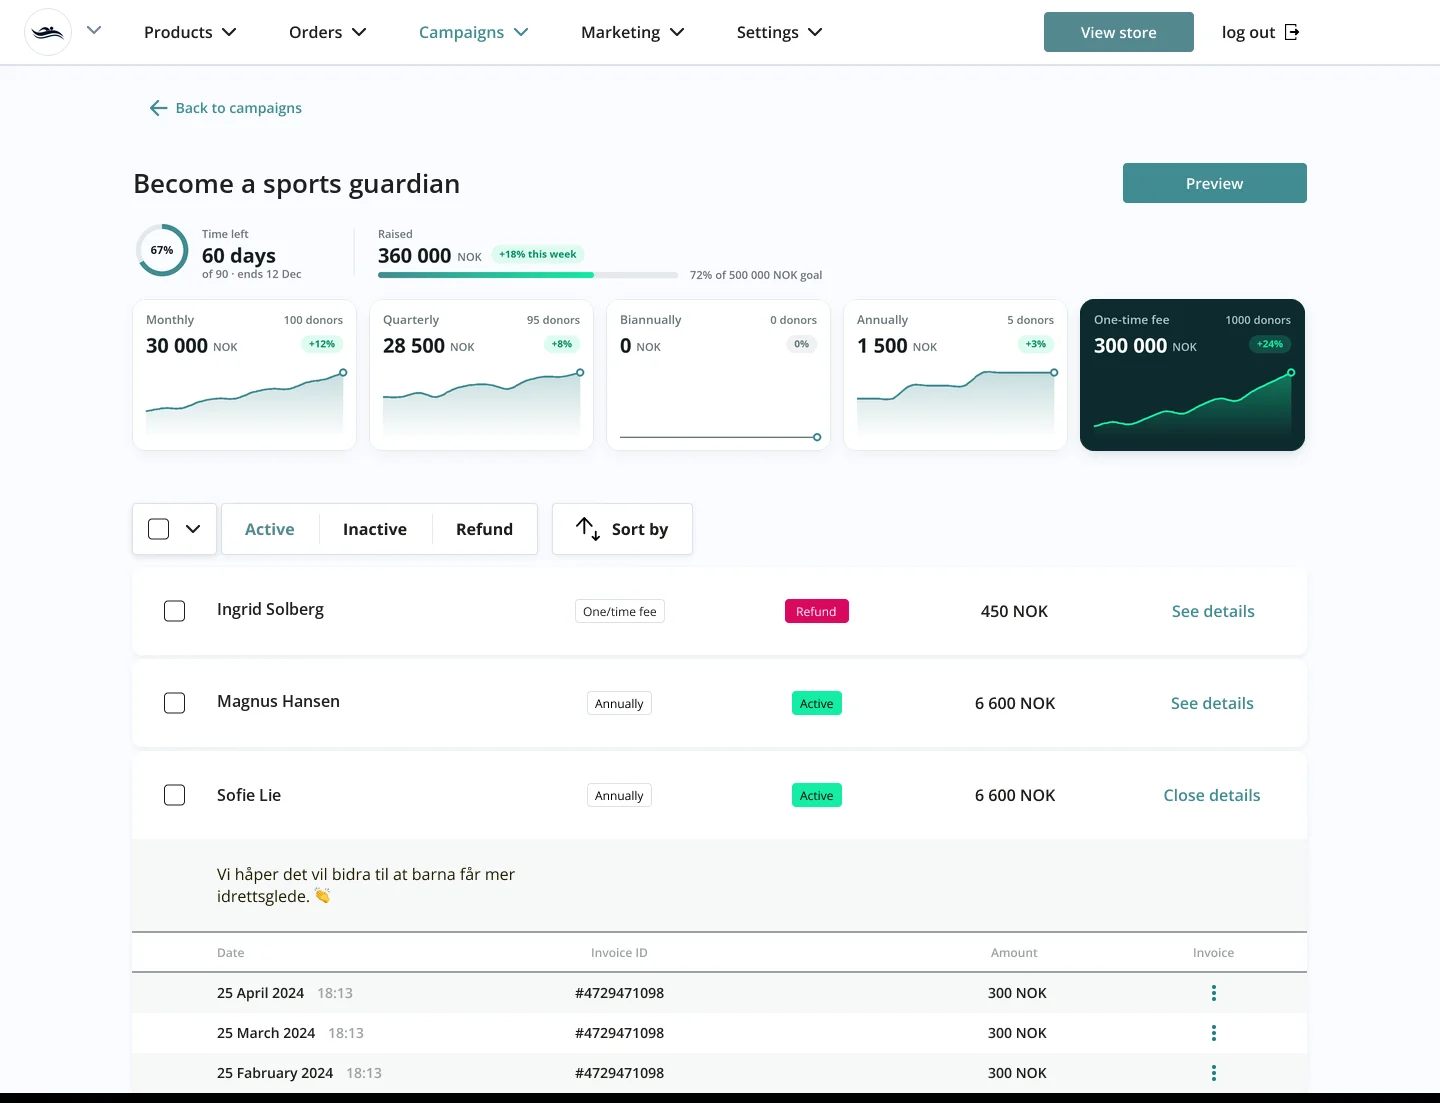
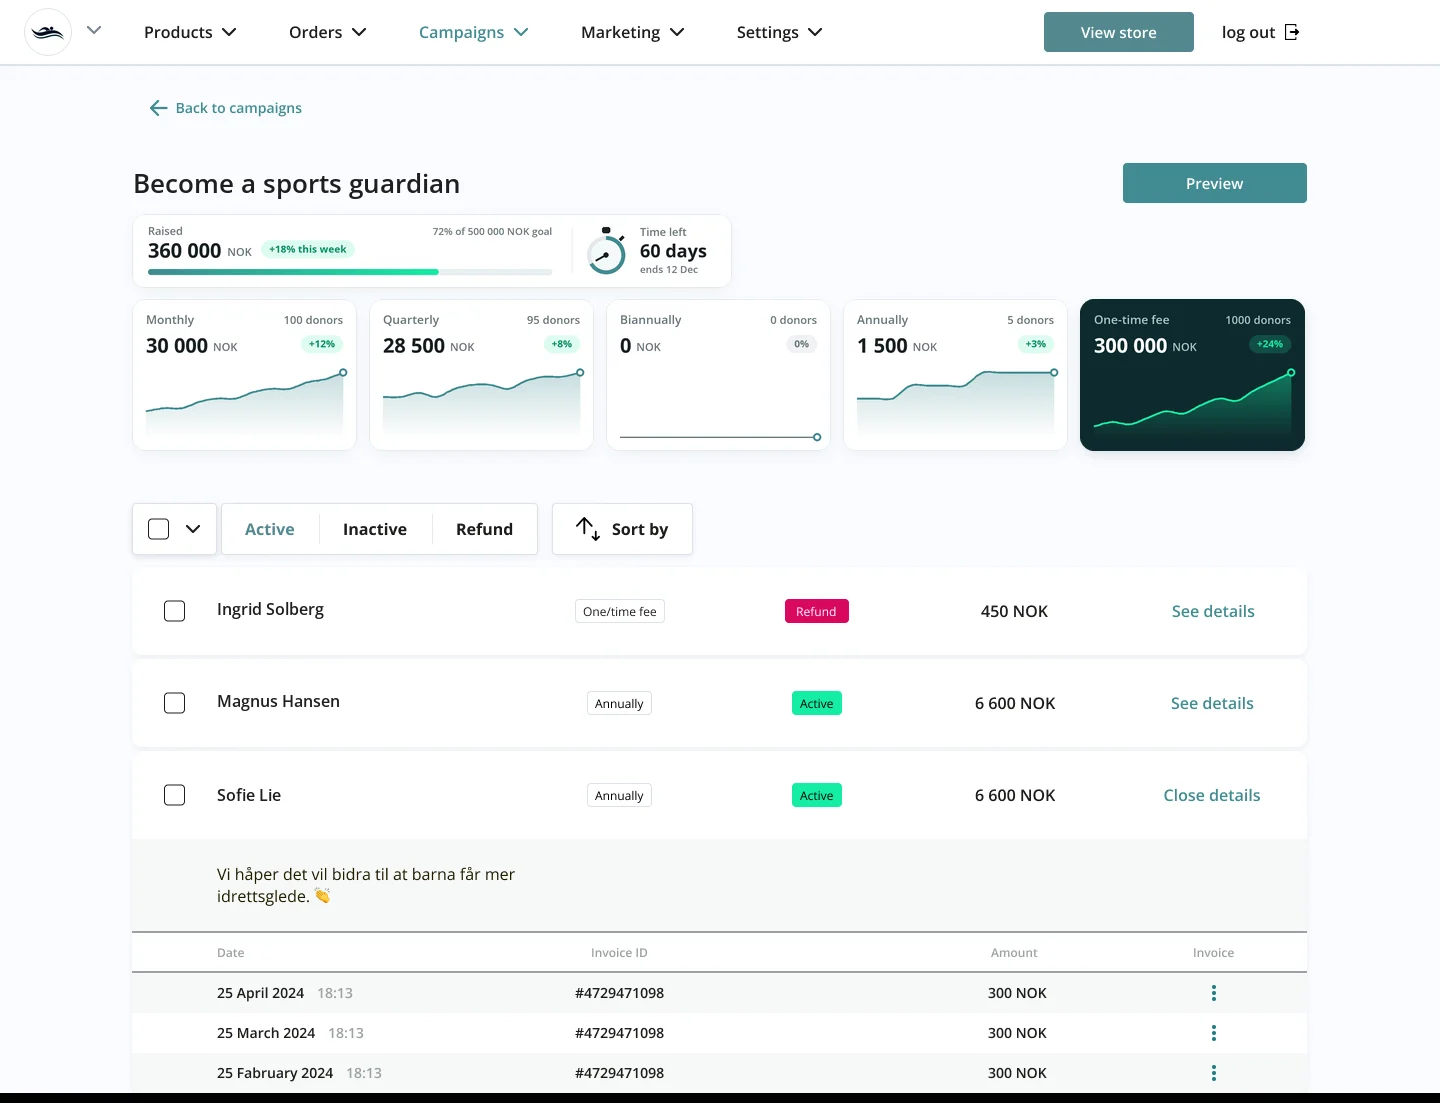
Sport Guardian admin: raised and time left in one card, progress bar left, stopwatch right

Changed region(s): [[0.0938, 0.185, 0.5, 0.2774], [0.5, 0.2466, 0.5625, 0.2774]]

diff --git a/tools/sport-guardian/stat_cards.py b/tools/sport-guardian/stat_cards.py
@@ -92,38 +92,47 @@ def club_logo(im):
     return im
 
 def kpis(im):
-    X, Y, W2, H2 = 132, 214, 780, 72
+    """One card (2026-10-13, her request): on the left the amount raised with a progress bar to the goal,
+    on the right a small stopwatch whose ring shows the time left."""
+    X, Y, W2, H2 = 132, 214, 600, 74
     w, h = W2*S, H2*S; bg = im.getpixel((X-8, Y+10))
-    k = Image.new('RGB', (w, h), bg); d = ImageDraw.Draw(k)
+    k = Image.new('RGBA', (w, h), (0, 0, 0, 0)); d = ImageDraw.Draw(k)
+    d.rounded_rectangle((0, 0, w-1, h-1), 14*S, fill=(255, 255, 255), outline=(228, 234, 238), width=S)
     mut = (106, 119, 124)
-    # time left: a progress ring, 60 of 90 days
-    r0, cx, cy = 26*S, 30*S, 36*S
-    d.ellipse((cx-r0, cy-r0, cx+r0, cy+r0), outline=(226, 233, 236), width=5*S)
-    d.arc((cx-r0, cy-r0, cx+r0, cy+r0), -90, -90+360*60/90, fill=TEAL, width=5*S)
-    ctext = lambda box, t, f, fill: (lambda b: d.text(((box[0]+box[2]-(b[2]-b[0]))/2-b[0], (box[1]+box[3]-(b[3]-b[1]))/2-b[1]), t, font=f, fill=fill))(d.textbbox((0, 0), t, font=f))
-    ctext((cx-r0, cy-r0, cx+r0, cy+r0), '67%', FONT('Bold', 11*S), INK)
-    x = 70*S
-    d.text((x, 12*S), 'Time left', font=FONT('SemiBold', 11*S), fill=mut)
-    d.text((x, 27*S), '60 days', font=FONT('Bold', 20*S), fill=INK)
-    d.text((x, 52*S), 'of 90 · ends 12 Dec', font=FONT('SemiBold', 11*S), fill=mut)
-    d.line([(222*S, 14*S), (222*S, 62*S)], fill=(226, 233, 236), width=S)
-    # raised: the amount, a growth chip and a progress bar to the goal
-    x = 246*S
-    d.text((x, 12*S), 'Raised', font=FONT('SemiBold', 11*S), fill=mut)
-    fa = FONT('Bold', 20*S); d.text((x, 27*S), '360 000', font=fa, fill=INK)
+    # left: raised
+    x = 16*S
+    d.text((x, 9*S), 'Raised', font=FONT('SemiBold', 11*S), fill=mut)
+    fa = FONT('Bold', 20*S); d.text((x, 22*S), '360 000', font=fa, fill=INK)
     aw = d.textbbox((0, 0), '360 000', font=fa)[2]
-    d.text((x+aw+6*S, 35*S), 'NOK', font=FONT('SemiBold', 11*S), fill=mut)
-    cx0 = x+aw+40*S; fc = FONT('Bold', 10*S); cb = d.textbbox((0, 0), '+18% this week', font=fc)
-    d.rounded_rectangle((cx0, 31*S, cx0+cb[2]-cb[0]+16*S, 49*S), 9*S, fill=(221, 251, 240))
-    d.text((cx0+8*S-cb[0], 40*S-(cb[3]-cb[1])/2-cb[1]), '+18% this week', font=fc, fill=(10, 143, 98))
-    bx0, bx1, by = x, x+300*S, 58*S
-    d.rounded_rectangle((bx0, by, bx1, by+6*S), 3*S, fill=(226, 233, 236))
-    fill_w = int((bx1-bx0)*0.72); grad = Image.new('RGB', (fill_w, 6*S))
-    for i in range(fill_w):
-        t = i/max(fill_w-1, 1); grad.paste(tuple(int(TEAL[j]+(GREEN[j]-TEAL[j])*t) for j in range(3)), (i, 0, i+1, 6*S))
-    gm = Image.new('L', grad.size, 0); ImageDraw.Draw(gm).rounded_rectangle((0, 0, fill_w-1, 6*S-1), 3*S, fill=255)
+    d.text((x+aw+6*S, 30*S), 'NOK', font=FONT('SemiBold', 11*S), fill=mut)
+    fc = FONT('Bold', 10*S); cb = d.textbbox((0, 0), '+18% this week', font=fc); cx0 = x+aw+40*S
+    d.rounded_rectangle((cx0, 26*S, cx0+cb[2]-cb[0]+16*S, 44*S), 9*S, fill=(221, 251, 240))
+    d.text((cx0+8*S-cb[0], 35*S-(cb[3]-cb[1])/2-cb[1]), '+18% this week', font=fc, fill=(10, 143, 98))
+    bx0, bx1, by = x, 420*S, 55*S
+    d.rounded_rectangle((bx0, by, bx1, by+6*S), 3*S, fill=(232, 238, 240))
+    fw = int((bx1-bx0)*0.72); grad = Image.new('RGB', (fw, 6*S))
+    for i in range(fw):
+        t = i/max(fw-1, 1); grad.paste(tuple(int(TEAL[j]+(GREEN[j]-TEAL[j])*t) for j in range(3)), (i, 0, i+1, 6*S))
+    gm = Image.new('L', grad.size, 0); ImageDraw.Draw(gm).rounded_rectangle((0, 0, fw-1, 6*S-1), 3*S, fill=255)
     k.paste(grad, (bx0, by), gm)
-    d.text((bx1+12*S, by-5*S), '72% of 500 000 NOK goal', font=FONT('SemiBold', 11*S), fill=mut)
-    d2 = ImageDraw.Draw(im); d2.rectangle((X-6, Y, X+W2+6, Y+H2+4), fill=bg)
-    im.paste(k.resize((W2, H2), Image.LANCZOS), (X, Y))
+    g = FONT('SemiBold', 10*S); gt = '72% of 500 000 NOK goal'; gb = d.textbbox((0, 0), gt, font=g)
+    d.text((bx1-(gb[2]-gb[0]), 10*S), gt, font=g, fill=mut)
+    d.line([(440*S, 14*S), (440*S, h-14*S)], fill=(232, 238, 240), width=S)
+    # right: a stopwatch, the ring is the time left (60 of 90 days)
+    cx, cy, r = 474*S, 41*S, 19*S
+    d.rounded_rectangle((cx-4*S, cy-r-9*S, cx+4*S, cy-r-3*S), 2*S, fill=INK)          # crown
+    d.line([(cx+r*0.72, cy-r*0.72-1*S), (cx+r*0.92, cy-r*0.92-1*S)], fill=INK, width=3*S)  # side button
+    d.ellipse((cx-r, cy-r, cx+r, cy+r), fill=(244, 248, 248), outline=(226, 233, 236), width=4*S)
+    d.arc((cx-r, cy-r, cx+r, cy+r), -90, -90+360*60/90, fill=TEAL, width=4*S)
+    import math
+    a = math.radians(-90+360*60/90); d.line([(cx, cy), (cx+math.cos(a)*r*0.62, cy+math.sin(a)*r*0.62)], fill=INK, width=2*S)
+    d.ellipse((cx-2.5*S, cy-2.5*S, cx+2.5*S, cy+2.5*S), fill=INK)
+    x = 508*S
+    d.text((x, 10*S), 'Time left', font=FONT('SemiBold', 11*S), fill=mut)
+    d.text((x, 24*S), '60 days', font=FONT('Bold', 18*S), fill=INK)
+    d.text((x, 48*S), 'ends 12 Dec', font=FONT('SemiBold', 10*S), fill=mut)
+    ImageDraw.Draw(im).rectangle((X-6, Y-2, 132+5*225+4*12, Y+H2+6), fill=bg)
+    sh = Image.new('L', im.size, 0); ImageDraw.Draw(sh).rounded_rectangle((X+2, Y+6, X+W2-2, Y+H2+2), 14, fill=18)
+    im.paste(Image.new('RGB', im.size, (30, 60, 70)), (0, 0), sh.filter(ImageFilter.GaussianBlur(6)))
+    k = k.resize((W2, H2), Image.LANCZOS); im.paste(k, (X, Y), k)
     return im

diff --git a/sportguardian.md b/sportguardian.md
@@ -40,7 +40,7 @@ Order (2026-10-13, her request, last change): header → the moving mosaic → A
    (the desktop page: a browser frame, scrolling slowly under its fixed header, on a pale panel)
    - caption "Three steps after Donate" (1–4); the three payment cards staggered on a pale panel (5–12);
    - the donor list on a teal panel (1–4); the campaign builder's "Accept donations from / Select donation frequency" block on a pale panel (5–12): single elements, as she asked, since the full builder page is not its best side;
-   - the campaign statistics in the admin panel in a browser frame, scrolling under the fixed admin nav (1–12). The five frequency cards are redrawn as modern dashboard cards ("like crypto dashboards, with charts"): label and donor count, the amount, a growth chip, a small area chart with a gradient; One-time fee is the highlighted dark card with a green chart; chart data is made up ([`tools/sport-guardian/stat_cards.py`](tools/sport-guardian/stat_cards.py)). The caption runs in two lines (64ch). The admin header (her request): the club's swimmer mark from the campaign page in a round badge instead of the "Logo" placeholder; the time left and the amount raised are dashboard stats, not button-like chips: a progress ring with "Time left 60 days, of 90 · ends 12 Dec", and "Raised 360 000 NOK" with a "+18% this week" chip and a teal-to-green bar "72% of 500 000 NOK goal". The 90 days, the goal, the end date and the weekly growth are made up for the mockup.
+   - the campaign statistics in the admin panel in a browser frame, scrolling under the fixed admin nav (1–12). The five frequency cards are redrawn as modern dashboard cards ("like crypto dashboards, with charts"): label and donor count, the amount, a growth chip, a small area chart with a gradient; One-time fee is the highlighted dark card with a green chart; chart data is made up ([`tools/sport-guardian/stat_cards.py`](tools/sport-guardian/stat_cards.py)). The caption runs in two lines (64ch). The admin header (her request): the club's swimmer mark from the campaign page in a round badge instead of the "Logo" placeholder; the amount raised and the time left share one white card (her request): on the left "Raised 360 000 NOK" with a "+18% this week" chip and a teal-to-green bar, "72% of 500 000 NOK goal"; on the right a small stopwatch whose teal ring shows the time left, "Time left 60 days, ends 12 Dec". The 90 days, the goal, the end date and the weekly growth are made up for the mockup.
    Fixed headers: each long screen is cut into a header strip and a body (`*-head.webp`, `*-body.webp`) by [`tools/sport-guardian/fix_screens.py`](tools/sport-guardian/fix_screens.py). The same script replaces placeholder texts in the admin screens with made-up names: the statistics title "Become a sports guardian" and donors Ingrid Solberg, Magnus Hansen, Sofie Lie; the campaigns "Swimming for everyone", "Junior squad 2024"; the clubs Fjordby Svømmeklubb, Nordlys Fotball, Elvebakken Tennis. Not real people or clubs.
 5. **Brand** (mockups, not a real campaign):
    - the hoodie photo (the mark alone on its back) across the grid (1–12), 16:8, in place of the logo banner (her request, 2026-10-13); right under it the caption about the mark, no title, in two lines (64ch; her request);
